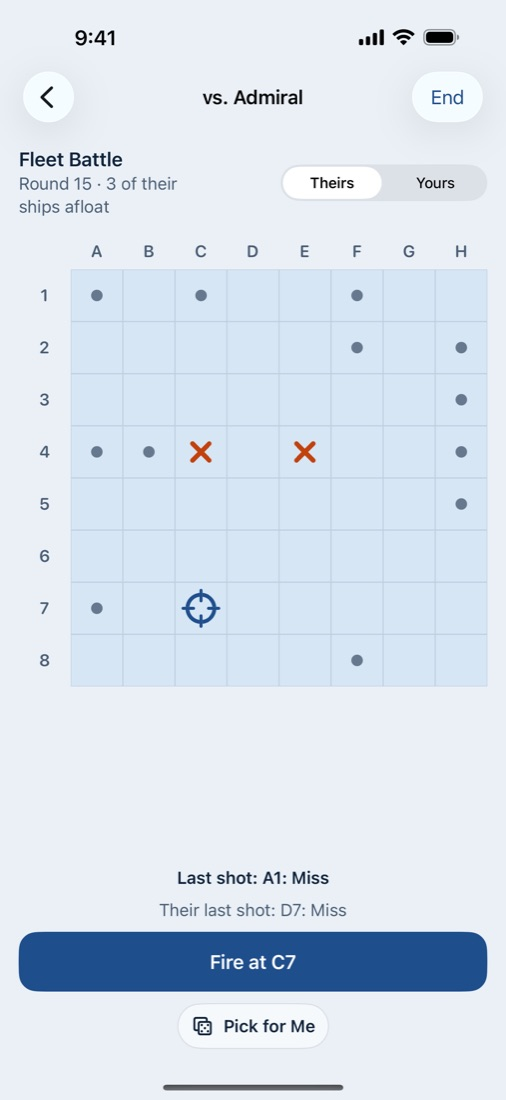
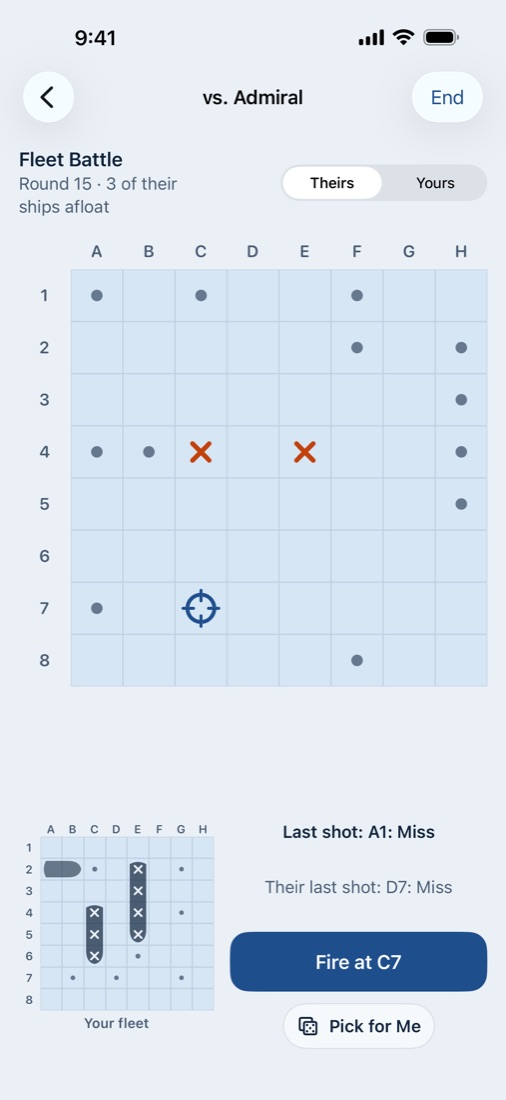
3 Strikes: manual and product page for instant results and Fleet changes
- Your own result shows at once; rounds settle when both have played
- Fleet mini map and sounds in the manual; BattleTable is portrait-only
- New iPad and iPhone screenshots

diff --git a/3strikes/guide/index.html b/3strikes/guide/index.html
@@ -141,7 +141,7 @@ ol.plain{padding-left:22px}ol.plain li{margin:6px 0}
         <p class="sub">You both choose a secret code, then race to crack each other's.</p>
         <ol class="plain">
           <li>Type your code, or tap Random Code, then Lock Code.</li>
-          <li>Each round, type a guess and Lock Guess. When both players have locked, both answers appear together.</li>
+          <li>Each round, type a guess and Lock Guess. Your answer shows straight away; the round ends when both players have guessed.</li>
           <li>The first to crack the other code wins. Both in the same round is a draw, so going first never helps.</li>
         </ol>
         <ul class="points">
@@ -161,9 +161,10 @@ ol.plain{padding-left:22px}ol.plain li{margin:6px 0}
         <ul class="points">
           <li><b>Your fleet:</b> a galleon (4 squares), a brig (3) and a sloop (2), each in a straight line. They can touch, but not overlap.</li>
           <li><b>Placing:</b> you start with a random fleet. Tap a ship to pick it, tap the water to move it, and Turn to swing it round. Shuffle for a new layout, then Lock Fleet.</li>
-          <li><b>Firing:</b> tap a square to aim, then Fire. Pick for Me chooses an untried square. Both shots land together.</li>
+          <li><b>Firing:</b> tap a square to aim, then Fire. Pick for Me chooses an untried square. You see where your shot landed straight away; the round ends when both have fired.</li>
           <li><b>Marks:</b> a dot is a miss, an orange × a hit, and a dark hull a sunk ship, shown whole.</li>
-          <li><b>Theirs / Yours</b> switches to your own sea, to see where they've fired.</li>
+          <li><b>Your fleet</b>, the small map beside Fire, shows your ships and where they've fired. Theirs / Yours shows it full size.</li>
+          <li><b>Sounds:</b> a blaster when anyone fires, then a boom, a splash, or a ship going down. They play in silent mode unless you turn that off in Settings.</li>
           <li>Sink the whole fleet to win. Both fleets sinking in the same round is a draw.</li>
         </ul>
       </div>
@@ -194,7 +195,7 @@ ol.plain{padding-left:22px}ol.plain li{margin:6px 0}
 
   <section aria-labelledby="table">
     <h2 id="table">BattleTable (iPad)</h2>
-    <p class="sub">Lay an iPad flat on a table between two players. Each gets half the screen, turned to face them. On iPhone Duo, it works when the Duo is open.</p>
+    <p class="sub">Lay an iPad flat on a table between two players, one at each short end. Each gets half the screen, turned to face them. BattleTable is always portrait, so turning the iPad never moves anything. On iPhone Duo, it works when the Duo is open.</p>
     <ol class="plain">
       <li>Choose BattleTable when you start a match. By default, Player 1 chooses a secret while Player 2's half stays covered, then they swap.</li>
       <li>Or turn on <b>Both at once, behind a divider</b>: stand something like a folded card across the middle first. The clear band in the middle is there for it, and its width is in Settings.</li>

diff --git a/3strikes/index.html b/3strikes/index.html
@@ -108,8 +108,8 @@ section{scroll-margin-top:72px;padding-block:56px;border-top:1px dashed var(--bo
         <h2 id="games">Three games</h2>
         <ul class="points">
           <li><b>Classic:</b> the original. Crack the computer's code in as few guesses as you can.</li>
-          <li><b>Number Battle:</b> you both choose a code, then race to crack each other's. Both lock a guess before either answer shows, so going first never helps.</li>
-          <li><b>Fleet Battle:</b> hide a galleon, a brig and a sloop on an 8×8 sea, then find theirs. Both shots land together: miss, hit or sunk.</li>
+          <li><b>Number Battle:</b> you both choose a code, then race to crack each other's. You see your answer at once, and a round ends when you've both guessed, so going first never helps.</li>
+          <li><b>Fleet Battle:</b> hide a galleon, a brig and a sloop on an 8×8 sea, then find theirs. Each shot shows at once: miss, hit or sunk.</li>
         </ul>
       </div>
       <img class="shot" src="/images/3strikes/iphone-fleet.jpg" width="506" height="1100" loading="lazy" alt="Fleet Battle: misses and hits on the enemy sea, aiming at C7"/>
